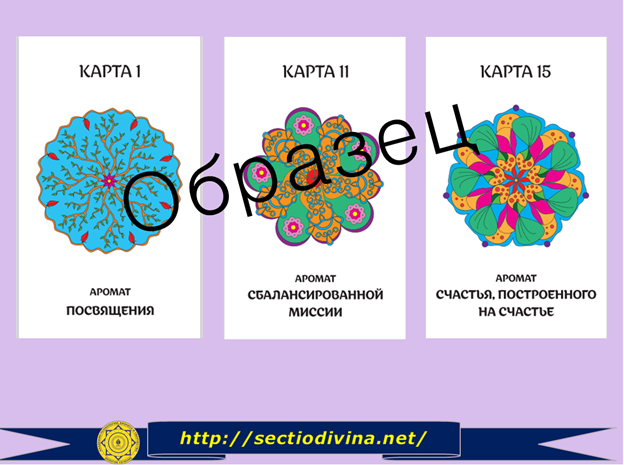
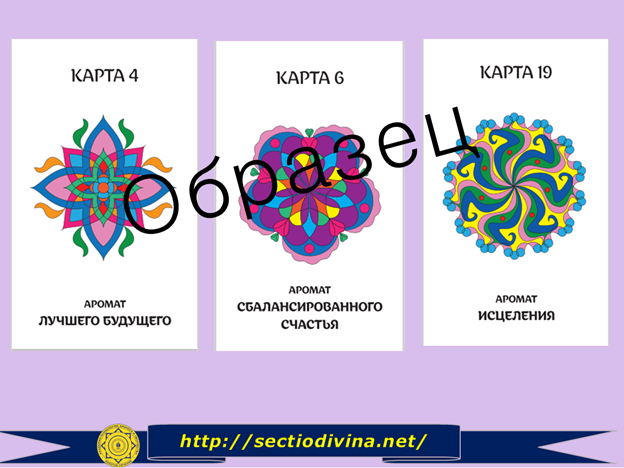
обновил карты

diff --git a/index.html b/index.html
@@ -53,10 +53,11 @@
       <div class="position-card">
         <div class="info infos1" id="info1">
           <h1 class="main-text1">Карта № 1</h1>
-          <h2 class="main-text2">Аромат посвящения.</h2>
+          <h2 class="main-text2">Аромат лучшего будущего.</h2>
           <p class="cart1">
-            * Появление этой карты в раскладе говорит о том, что вам сейчас необходимо понять и осознать куда направлено ваше внимание, о чем вы думаете, насколько созидательны и позитивны ваши мысли, эмоции, действия?
-            * Неосознанных людей легче увлечь иллюзиями и повести по ложному пути. Стремитесь ли вы получать истинные знания, прислушиваетесь ли к своей интуиции и внутренней мудрости? 
+            * Появление этой карты в раскладе говорит о том, что в вашей жизни есть та область, где вы испытываете страх потерять определенный комфорт и сейчас вы можете поработать с этим страхом, который мешает вам двигаться вперед. 
+* Проанализируйте, как давно вы стремились изменить что-либо в вашей жизни к лучшему? Считаете ли вы, что достойны этого лучшего?
+* Появляется ли у вас беспокойство, когда вы оказываетесь в выигрышной ситуации?
             <div class="number-cart">
               Пишите номер карты нам в ответном письме и получите доступ к медитации на платформе геткурс.
             </div> 
@@ -70,17 +71,14 @@
   
         <div class="info infos1" id="info2">
           <h4 class="main-text3">Карта № 2</h4>
-          <h5 class="main-text4">Аромат сбалансированной миссии.</h5>
+          <h5 class="main-text4">Аромат сбалансированного счастья.</h5>
           <p class="cart2">
-            * Появление этой карты в раскладе говорит о том, что вам необходимо определиться со своей миссией. Задумайся, о чем вы всегда мечтали? Какая деятельность, увлечения или темы вас привлекают? 
-*Например, вы можете любить искусство, спорт, науку или помощь людям. Изучайте свои интересы. Обратите внимание на области, которые вас интересуют. Что вы обычно изучаете, читаете или исследуете в свободное время? Какие темы и вопросы захватывают ваше внимание. 
-*Что может препятствовать определению миссии:
- - Недостаток самоанализа. Многие люди не задают себе вопросы о своих ценностях, талантах и истинных желаниях. Недостаток самоанализа препятствует ясному пониманию своей миссии.
--  Внешние ожидания и влияние. Внешние ожидания от окружающих, общества или семьи, когда мы слишком сильно ориентируемся на мнение других, оказывают давление и мешают самостоятельному определению собственной миссии. 
-- Страх неудачи. Боязнь неудачи или ошибок, страх провала или сомнения могут остановить нас от исследования и попыток определить свою миссию. 
-- Сравнение с другими. Постоянное сравнение с другими людьми и сравнение своих достижений с их успехами отвлекает от истинного понимания своей миссии. Каждый человек уникален, и его миссия может отличаться от миссии других людей. 
-- Ограничивающие убеждения и установки. Негативные убеждения о себе, такие как “Я не достоин” или “У меня нет способностей”, становятся препятствием для определения жизненной миссии. 
-* Когда вы заняты тем, что соответствует вашему предназначению, вы испытываете любовь и удовлетворение, погружаетесь в работу или деятельность без ощущения времени. Вы находитесь в состояние потока, осознаете, что ваши действия и усилия вносят положительный вклад в мир и оказывают влияние на других людей. Вы становитесь источником вдохновения для других, помогая им видеть свой собственный потенциал и возможности.
+            *Появление этой карты в раскладе говорит о том, что пришла пора пересмотреть вашу позицию в отношении брать и давать. Проанализируйте ваши взаимоотношения с окружающими, родственниками, друзьями, коллегами:
+            -  Где происходит дисбаланс? 
+            - Насколько вы умеете принимать дары Вселенной в любом виде и насколько взвешенно вы можете отдавать то, что необходимо отдать. 
+            - Есть ли у вас проблемы со «спасательством»? Пытаетесь ли вы спасать кого-то, даже если вас об этом не просят. Что происходит в результате?
+            - Как давно вы чувствовали себя счастливым и беззаботным? 
+            - Устраивает ли вас ваше настоящее?
             <div class="number-cart">
               Пишите номер карты нам в ответном письме и получите доступ к медитации на платформе геткурс.
             </div> 
@@ -95,11 +93,16 @@
             Карта № 3 
           </h6>
           <h7 class="main-text6">
-            Аромат счастья, построенного на счастье.
+            Аромат исцеления.
           </h7>
           <p class="cart3">
-            * Появление этой карты в раскладе говорит о том, что сейчас наступил период правильно оценить ваши семейные взаимоотношения. Как часто вы недовольны вашим ближним окружением и почему? Можете ли вы сказать, что делаете все для того, чтобы ваша семейная жизнь была счастливой, насыщенной, благополучной? 
-            *Направьте вектор вашего внимания на себя. Подумайте о тех претензиях, которые часто возникают у вас. Может быть дело не в близких, а вас самих? Попробуйте быть непредвзятым, поднимитесь над ситуацией и посмотрите на себя со стороны. Всегда ли вы были правы? Подумайте о том, что бы вы могли сделать полезного для вашей семьи сейчас.
+            * Появление этой карты в раскладе говорит о том, что тема исцеления сейчас как никогда близка вам. Путь к исцелению всегда начинается через самопознание. Вы единственный, кто сможет себе помочь. Давайте раскроем ваши возможности по исцелению:
+- У вас есть собственные силы на исцеление.
+- Ваше исцеление — ваша ответственность
+- Исцелите душу, а следом исцелятся разум и тело
+- Единственный способ действовать — изменяться
+- Прощение освобождает вас, а благодарность и любовь исцеляет
+* Быть целостным – значит погружаться в себя всем сердцем и с пониманием встречать даже отсутствие любви, даже свою бессердечность. Быть целостным – значит принимать, действовать без насилия, меняться, доверять происходящему
             <div class="number-cart">
               Пишите номер карты нам в ответном письме и получите доступ к медитации на платформе геткурс.
             </div> 
